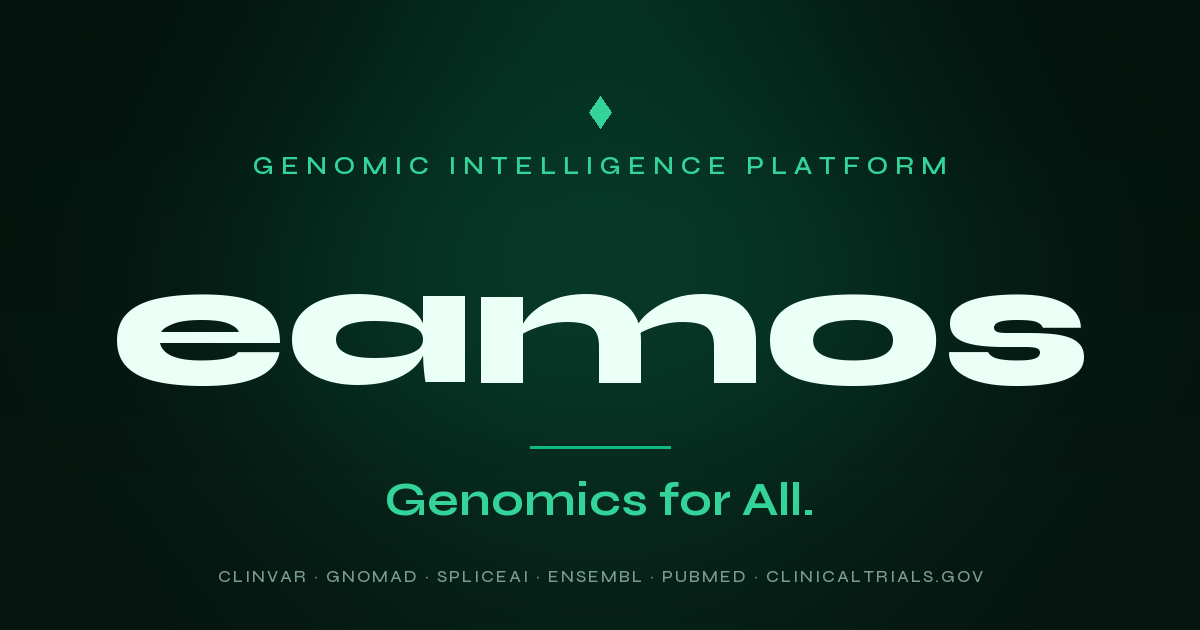
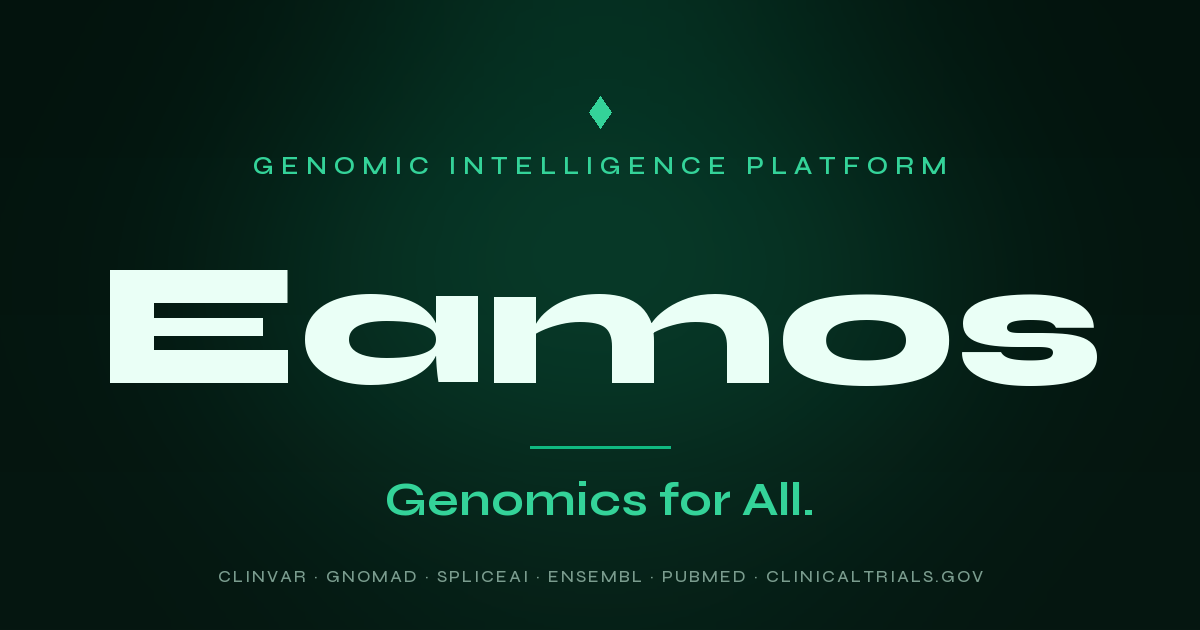
fix(web): capitalize Eamos wordmark site-wide
Per brand decision (capital E everywhere): shared EamosLogo component (nav,
footer, page headers), Workbench logo, password-reset page wordmark, and the
regenerated og-image now read 'Eamos'.

diff --git a/app/web/app/account/update-password/page.tsx b/app/web/app/account/update-password/page.tsx
@@ -33,7 +33,7 @@ export default function UpdatePasswordPage() {
     <main style={{ minHeight: '100dvh', background: 'var(--d-bg)', display: 'grid', placeItems: 'center', padding: 24 }}>
       <div style={{ width: '100%', maxWidth: 400, background: 'rgba(5,26,19,0.6)', border: '0.5px solid var(--hero-line)', borderRadius: 16, padding: '28px 26px' }}>
         <a href="/" style={{ fontFamily: 'var(--display)', fontSize: 20, fontWeight: 700, letterSpacing: '-0.01em', color: 'var(--hero-ink)', textDecoration: 'none' }}>
-          eamos
+          Eamos
         </a>
         <h1 style={{ fontFamily: 'var(--display)', fontWeight: 600, fontSize: 19, color: 'var(--hero-ink)', margin: '18px 0 6px' }}>
           Set a new password

diff --git a/app/web/components/workbench/WorkbenchClient.tsx b/app/web/components/workbench/WorkbenchClient.tsx
@@ -80,7 +80,7 @@ export function WorkbenchClient() {
               <circle cx="22.5" cy="11" r="2.8" fill="#1D9E75" />
             </svg>
             <span className="logo-word">
-              <span className="e1">e</span>amos
+              <span className="e1">E</span>amos
             </span>
             <span className="logo-sub">workbench</span>
           </Link>

diff --git a/app/web/components/brand/EamosLogo.tsx b/app/web/components/brand/EamosLogo.tsx
@@ -41,7 +41,7 @@ export function EamosLogo({ size = 16, showWordmark = true, className, tone = 'l
           className="font-semibold tracking-[-0.01em]"
           style={{ fontSize: size, lineHeight: 1 }}
         >
-          <span style={{ color: mark }}>e</span>amos
+          <span style={{ color: mark }}>E</span>amos
         </span>
       )}
     </span>
